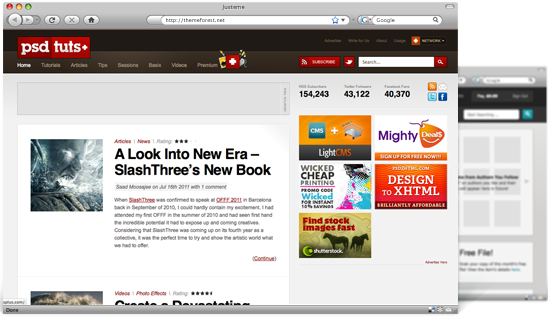
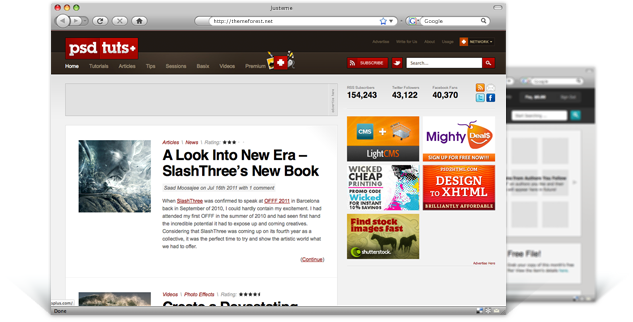
Day 3 - Responsive for Ipad + Desktop

diff --git a/day3/dai/css/style.css b/day3/dai/css/style.css
@@ -99,7 +99,6 @@ header {
 .menu > ul > li > a:hover {
     color: #ff7146;
 }
-
 /*end header*/
 
 /*welcome*/
@@ -183,7 +182,7 @@ header {
 }
 
 .slider .slider_img img {
-    max-width: 100%;
+    width: 100%;
     height: auto;
 }
 
@@ -460,7 +459,8 @@ header {
     }
 
     .slider_button {
-        padding: 20px 0 0;
+        padding: 30px 0 0;
+        text-align: left;
     }
 
     /*end slider*/
@@ -472,7 +472,11 @@ header {
     .content_three .col-4 {
         width: 33.3333%;
         float: left;
-        padding: 0 10px 0 80px;
+        padding: 0 50px 0 80px;
+    }
+
+    .content_three .col-4:last-child {
+        margin-right: -30px;
     }
 
     .content_three .col-4 .description p {
@@ -499,7 +503,7 @@ header {
     /*end about_company*/
     /*footer*/
     .footer_p1 {
-        padding: 15px 0 10px;
+        padding: 10px 0 30px;
     }
 
     .footer_p1 .col-3 {
@@ -513,11 +517,11 @@ header {
     }
 
     .footer_p1 .col-3 h3 {
-        padding: 5px 0;
+        padding: 20px 0;
     }
 
     .footer_p2 {
-        padding: 8px 0;
+        padding: 20px 0;
     }
 
     .footer_p2 .policy {
@@ -565,11 +569,15 @@ header {
     /*end welcome*/
     /*slider*/
     .slider .slider_description {
-        width: 40%;
+        width: 37.5%;
     }
 
     .slider .slider_img {
-        width: 60%;
+        width: 62.5%;
+    }
+
+    .slider_button {
+        padding: 50px 0 0;
     }
 
     /*end slider*/
